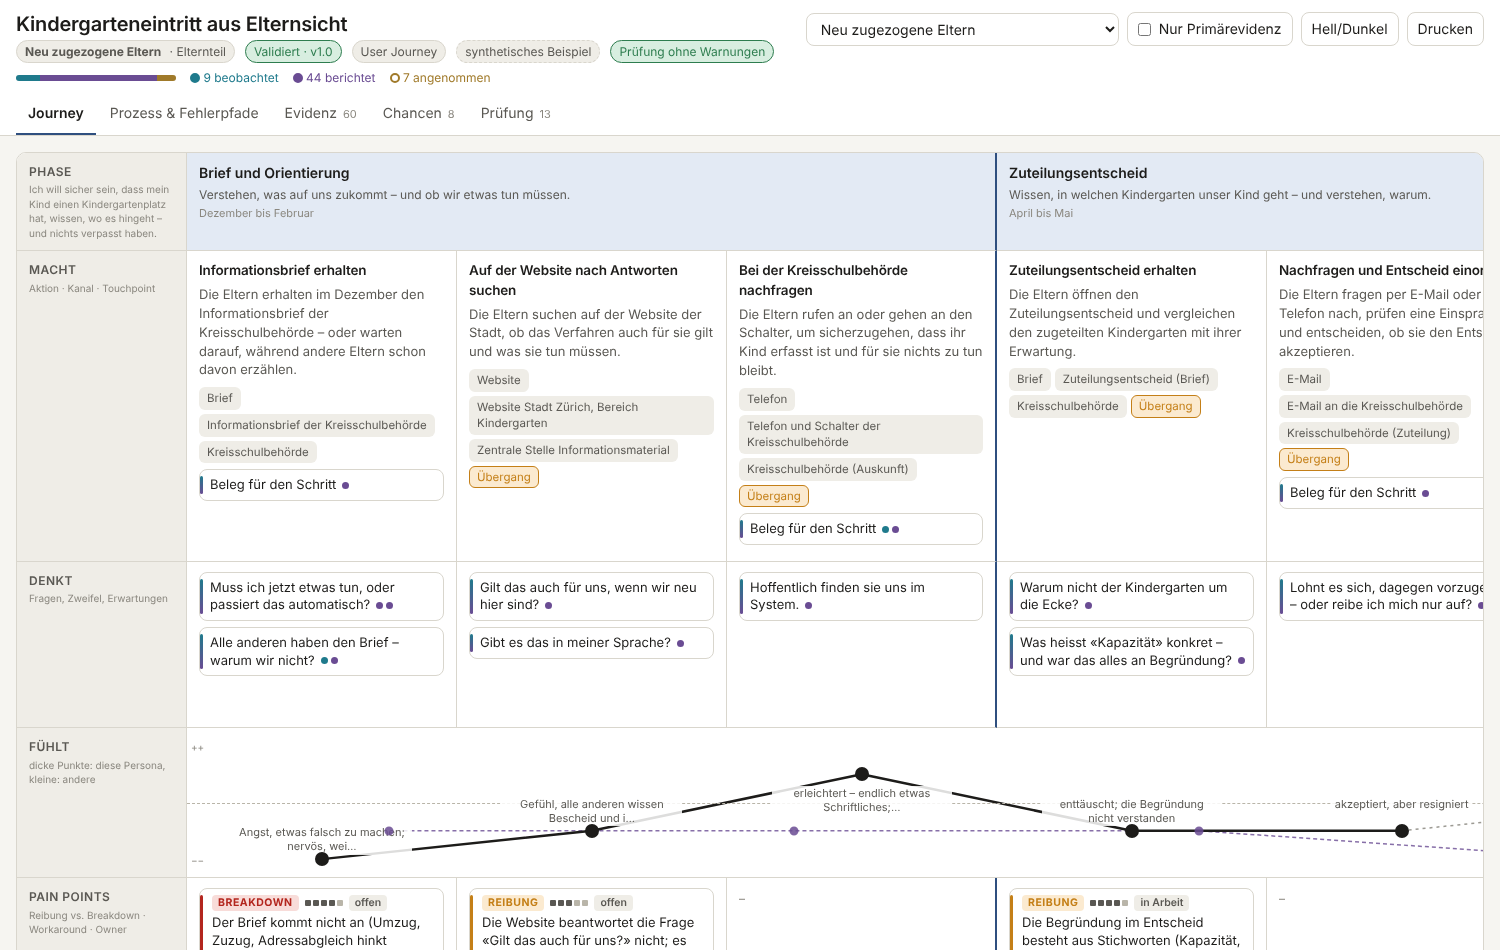
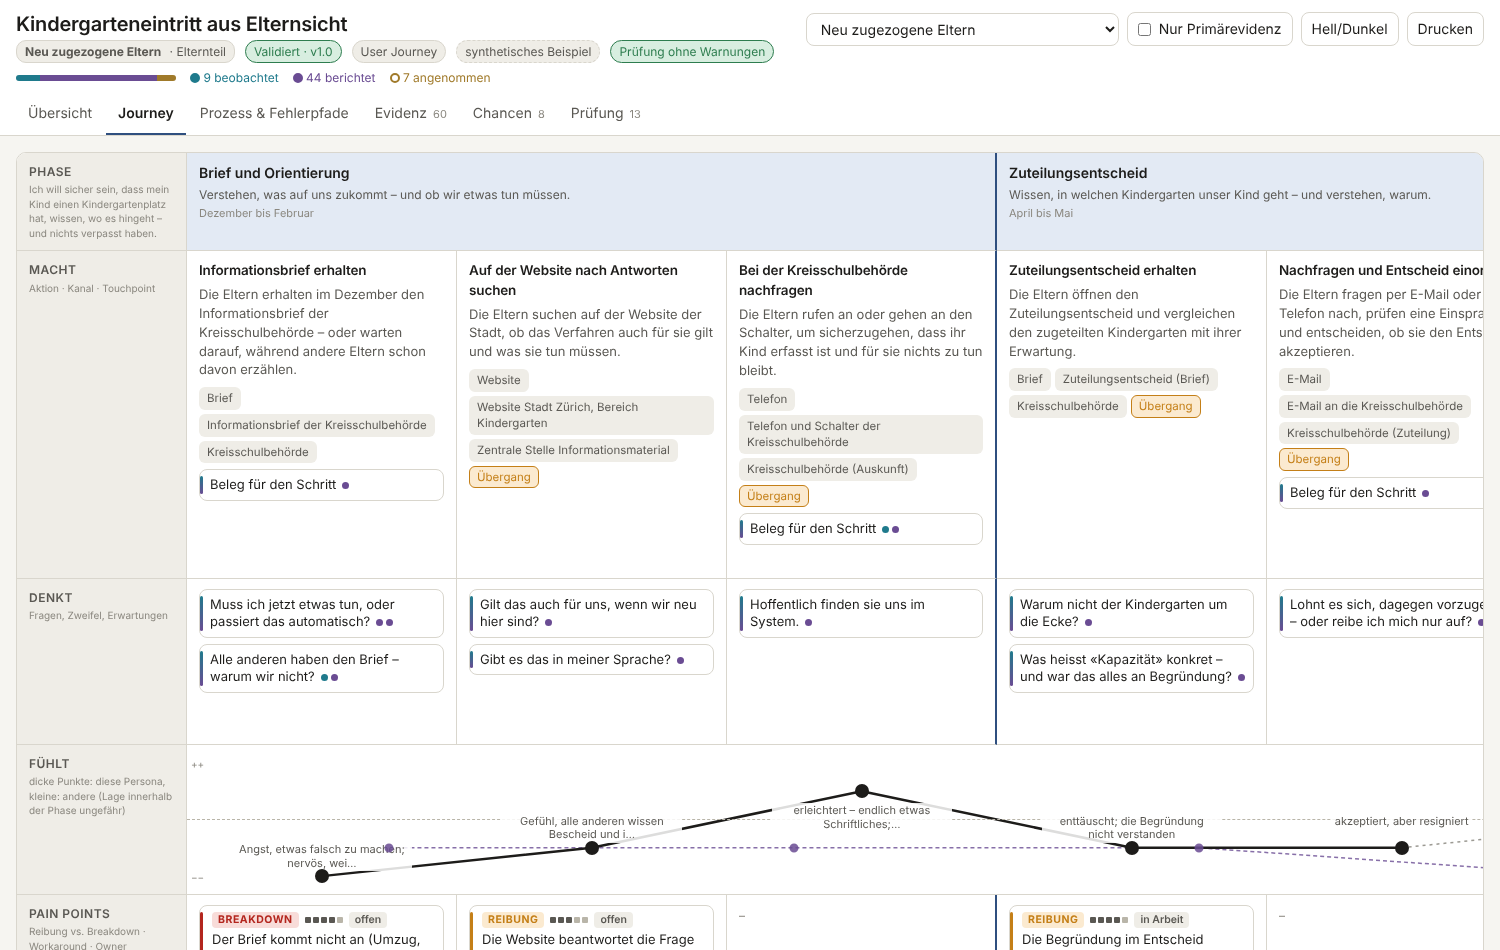
docs: Abbildung der Übersicht im README, Journey-Abbildung neu aufgenommen
docs/overview.png zeigt die neue Startansicht des Viewers (Beispiel
Kindergarteneintritt) und steht im Abschnitt «Demo» beider READMEs vor
der Journey-Abbildung. docs/demo.png ist neu aufgenommen, damit die
Tab-Leiste die Übersicht enthält.

Claude-Session: https://claude.ai/code/session_01Qk7azgmEuJbKbqMr8TAtHY

diff --git a/CHANGELOG.md b/CHANGELOG.md
@@ -8,6 +8,7 @@ and this project adheres to [Semantic Versioning](https://semver.org/spec/v2.0.0
 ## [Unreleased]
 
 ### Added
+- README (EN/DE): screenshot of the overview layer (`docs/overview.png`) above the journey screenshot; `docs/demo.png` re-taken so the tab bar shows the new layer
 - Viewer: new first layer «Übersicht» / «Vue d'ensemble», opened by default – how far the journey rests on users rather than the inside view. Tiles: share of experience statements backed by primary evidence (with a bar per phase; a phase without such statements shows a dotted line, not a zero bar), statements without primary evidence (only assumed / no evidence at all), breakdowns and frictions, evidence atoms by class with the number of sources, steps, phases and transitions. A bubble matrix of statement type × phase: ring area by the number of statements, filled area by the share backed by primary evidence, without primary evidence the ring follows the journey layer – dashed when at least assumed, dotted when not backed at all (in `workshop-hypothese.json` the steps have no evidence while thoughts and feelings rest on workshop assumptions; one ring style hid that), the fraction below each bubble because shares of two or three statements mislead as percentages; each bubble opens the drawer. A list of every pain point with its strongest evidence atom (observed before reported before assumed, quotes first), breakdowns first, then by severity; ↑/↓, Home and End move through it, Enter opens all evidence; the primary-evidence filter applies as in the journey layer. The counts judge the model, not the quality of the writing; no ranking and no totals across personas. Inspired by dashboard patterns (ranked bars, bubble matrix, «claim ↳ linked source» list), with no code or assets taken over and no external resources. All three example viewers re-rendered
 - Extraction test set: `scripts/eval_extraction.py signale` counts short interview turns (up to three sentences) whose required gold entries allow no common `signal` – one atom per short turn can then carry only one of them. Synthetic set: 1 of 30 (`fokusgruppe` [23:03]); `interview-hort` [03:40] does not count, since its gold accepts either signal for one atom. `--cases` points the scorer at another case directory, such as the local evaluation material. The decision rule for real material is committed beforehand: fewer than 30 short turns with required entries → no decision; up to 10 % → a short turn stays one atom; above → candidate for a template change with its own criterion and measurement run (`signals[]` in the schema only with an ADR and once code reads it)
 - Extraction test set: criterion for replacing the outdated guide value «12–25 atoms per 45-minute interview» in `evidenz.md` by an order of magnitude taken from the measured runs (about 1.5–2.5 atoms per minute of conversation, around 90–110 for a 45-minute interview with many long turns, not checked on real material). Committed before the runs and before the template change; the change enters `evidenz.md` only if three new blind runs keep the earlier conditions and leave the atom counts of the five interview cases within the range of the six earlier runs. Result (`runs/2026-10-14-richtwert-*`, `runs/2026-10-14-unabhaengig-richtwert-*`): all four conditions hold – 172/172, 4–10 shared required entries in the two-parent interview, 71/71 with 0–2 rule violations, atom counts within range (two-parent interview 109.7, focus group 110.7 against a limit of 112.2). The sentence enters `evidenz.md` as worded. Atom counts of the long interviews rose from batch to batch over all three batches, including between two with identical bundles, so a contribution of the sentence cannot be separated; the focus group already lies above the stated 2.5 atoms per minute, and the numbers are to be checked on real material

diff --git a/README.md b/README.md
@@ -26,6 +26,8 @@ The vocabulary is translated for public administration, where nobody "converts" 
 
 ### Demo
 
+![Overview layer of the viewer: share of statements backed by primary evidence, bubble matrix of evidence per phase, pain points with their strongest evidence](docs/overview.png)
+
 ![Journey layer of the viewer: phases, actions, thoughts, evidence-backed emotional curve, pain points](docs/demo.png)
 
 Open `examples/kindergarteneintritt/journey.html` in a browser for the full interactive version.

diff --git a/README.de.md b/README.de.md
@@ -26,6 +26,8 @@ Das Vokabular ist für die Verwaltung übersetzt, wo niemand «konvertiert» ode
 
 ### Demo
 
+![Übersicht des Viewers: Anteil belegter Aussagen, Kreismatrix der Belege je Phase, Pain Points mit ihrem stärksten Beleg](docs/overview.png)
+
 ![Journey-Layer des Viewers: Phasen, Handlungen, Gedanken, belegte Gefühlskurve, Pain Points](docs/demo.png)
 
 `examples/kindergarteneintritt/journey.html` im Browser öffnen für die vollständige interaktive Fassung.
